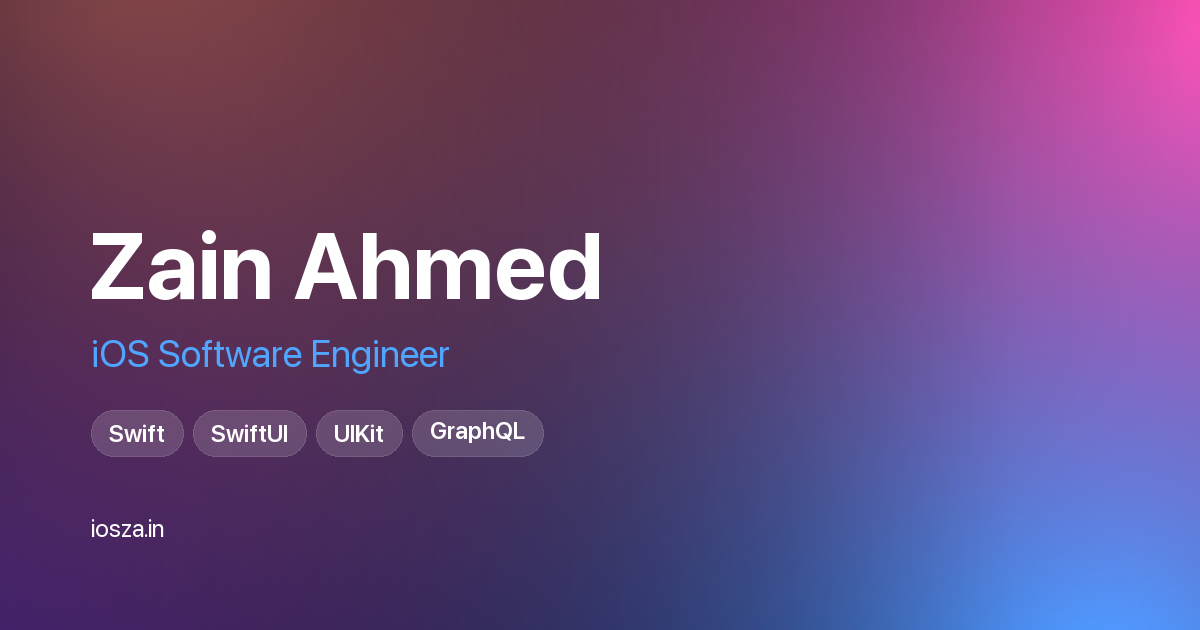
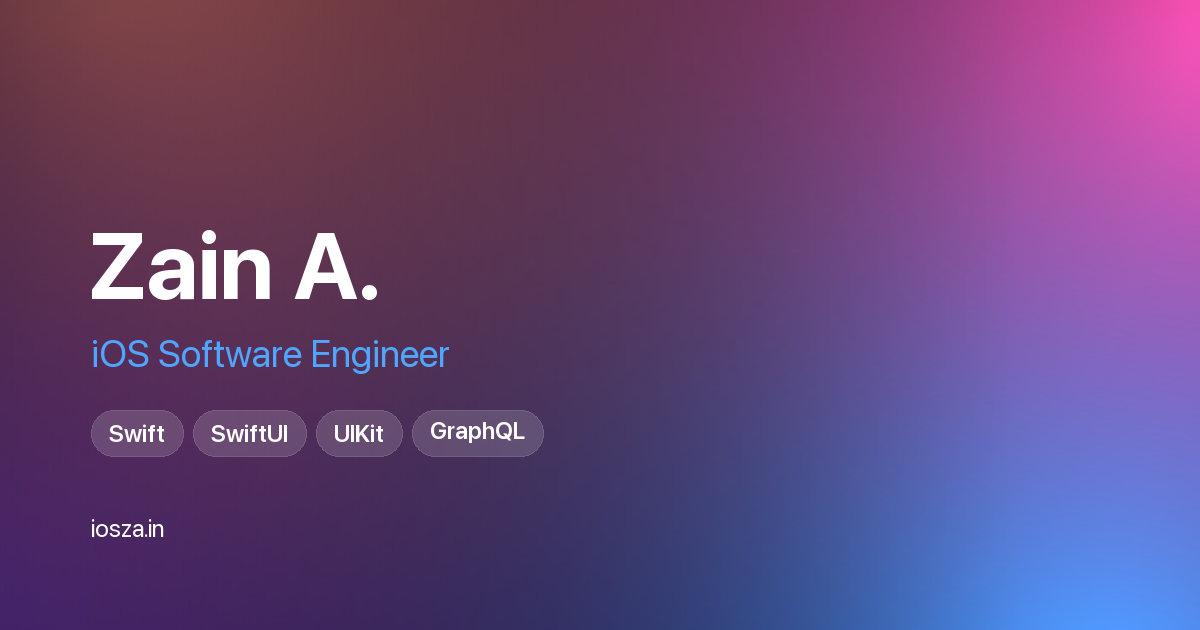
Use "Zain A." in link previews
Updates the description, Open Graph and Twitter titles, the image alt, and
regenerates the social card, which had the name rendered into it.

Changed region(s): [[0.2775, 0.3619, 0.5242, 0.4825]]

diff --git a/index.html b/index.html
@@ -5,22 +5,22 @@
   <meta name="viewport" content="width=device-width, initial-scale=1, viewport-fit=cover" />
 
   <title>zain</title>
-  <meta name="description" content="Zain Ahmed is an iOS software engineer building native apps in Swift and SwiftUI. Currently at Marriott, previously myQ and WanaSell." />
+  <meta name="description" content="Zain A. is an iOS software engineer building native apps in Swift and SwiftUI. Currently at Marriott, previously myQ and WanaSell." />
   <link rel="canonical" href="https://iosza.in/" />
   <meta name="theme-color" content="#0a0a0c" />
   <meta name="color-scheme" content="dark" />
 
   <meta property="og:type" content="website" />
   <meta property="og:url" content="https://iosza.in/" />
-  <meta property="og:title" content="Zain Ahmed — iOS Engineer" />
+  <meta property="og:title" content="Zain A. — iOS Engineer" />
   <meta property="og:description" content="Building native apps in Swift and SwiftUI. Currently at Marriott, previously myQ and WanaSell." />
   <meta property="og:image" content="https://iosza.in/assets/og-card.png" />
   <meta property="og:image:width" content="1200" />
   <meta property="og:image:height" content="630" />
-  <meta property="og:image:alt" content="Zain Ahmed, iOS Engineer" />
+  <meta property="og:image:alt" content="Zain A., iOS Engineer" />
 
   <meta name="twitter:card" content="summary_large_image" />
-  <meta name="twitter:title" content="Zain Ahmed — iOS Engineer" />
+  <meta name="twitter:title" content="Zain A. — iOS Engineer" />
   <meta name="twitter:description" content="Building native apps in Swift and SwiftUI. Currently at Marriott, previously myQ and WanaSell." />
   <meta name="twitter:image" content="https://iosza.in/assets/og-card.png" />
 
